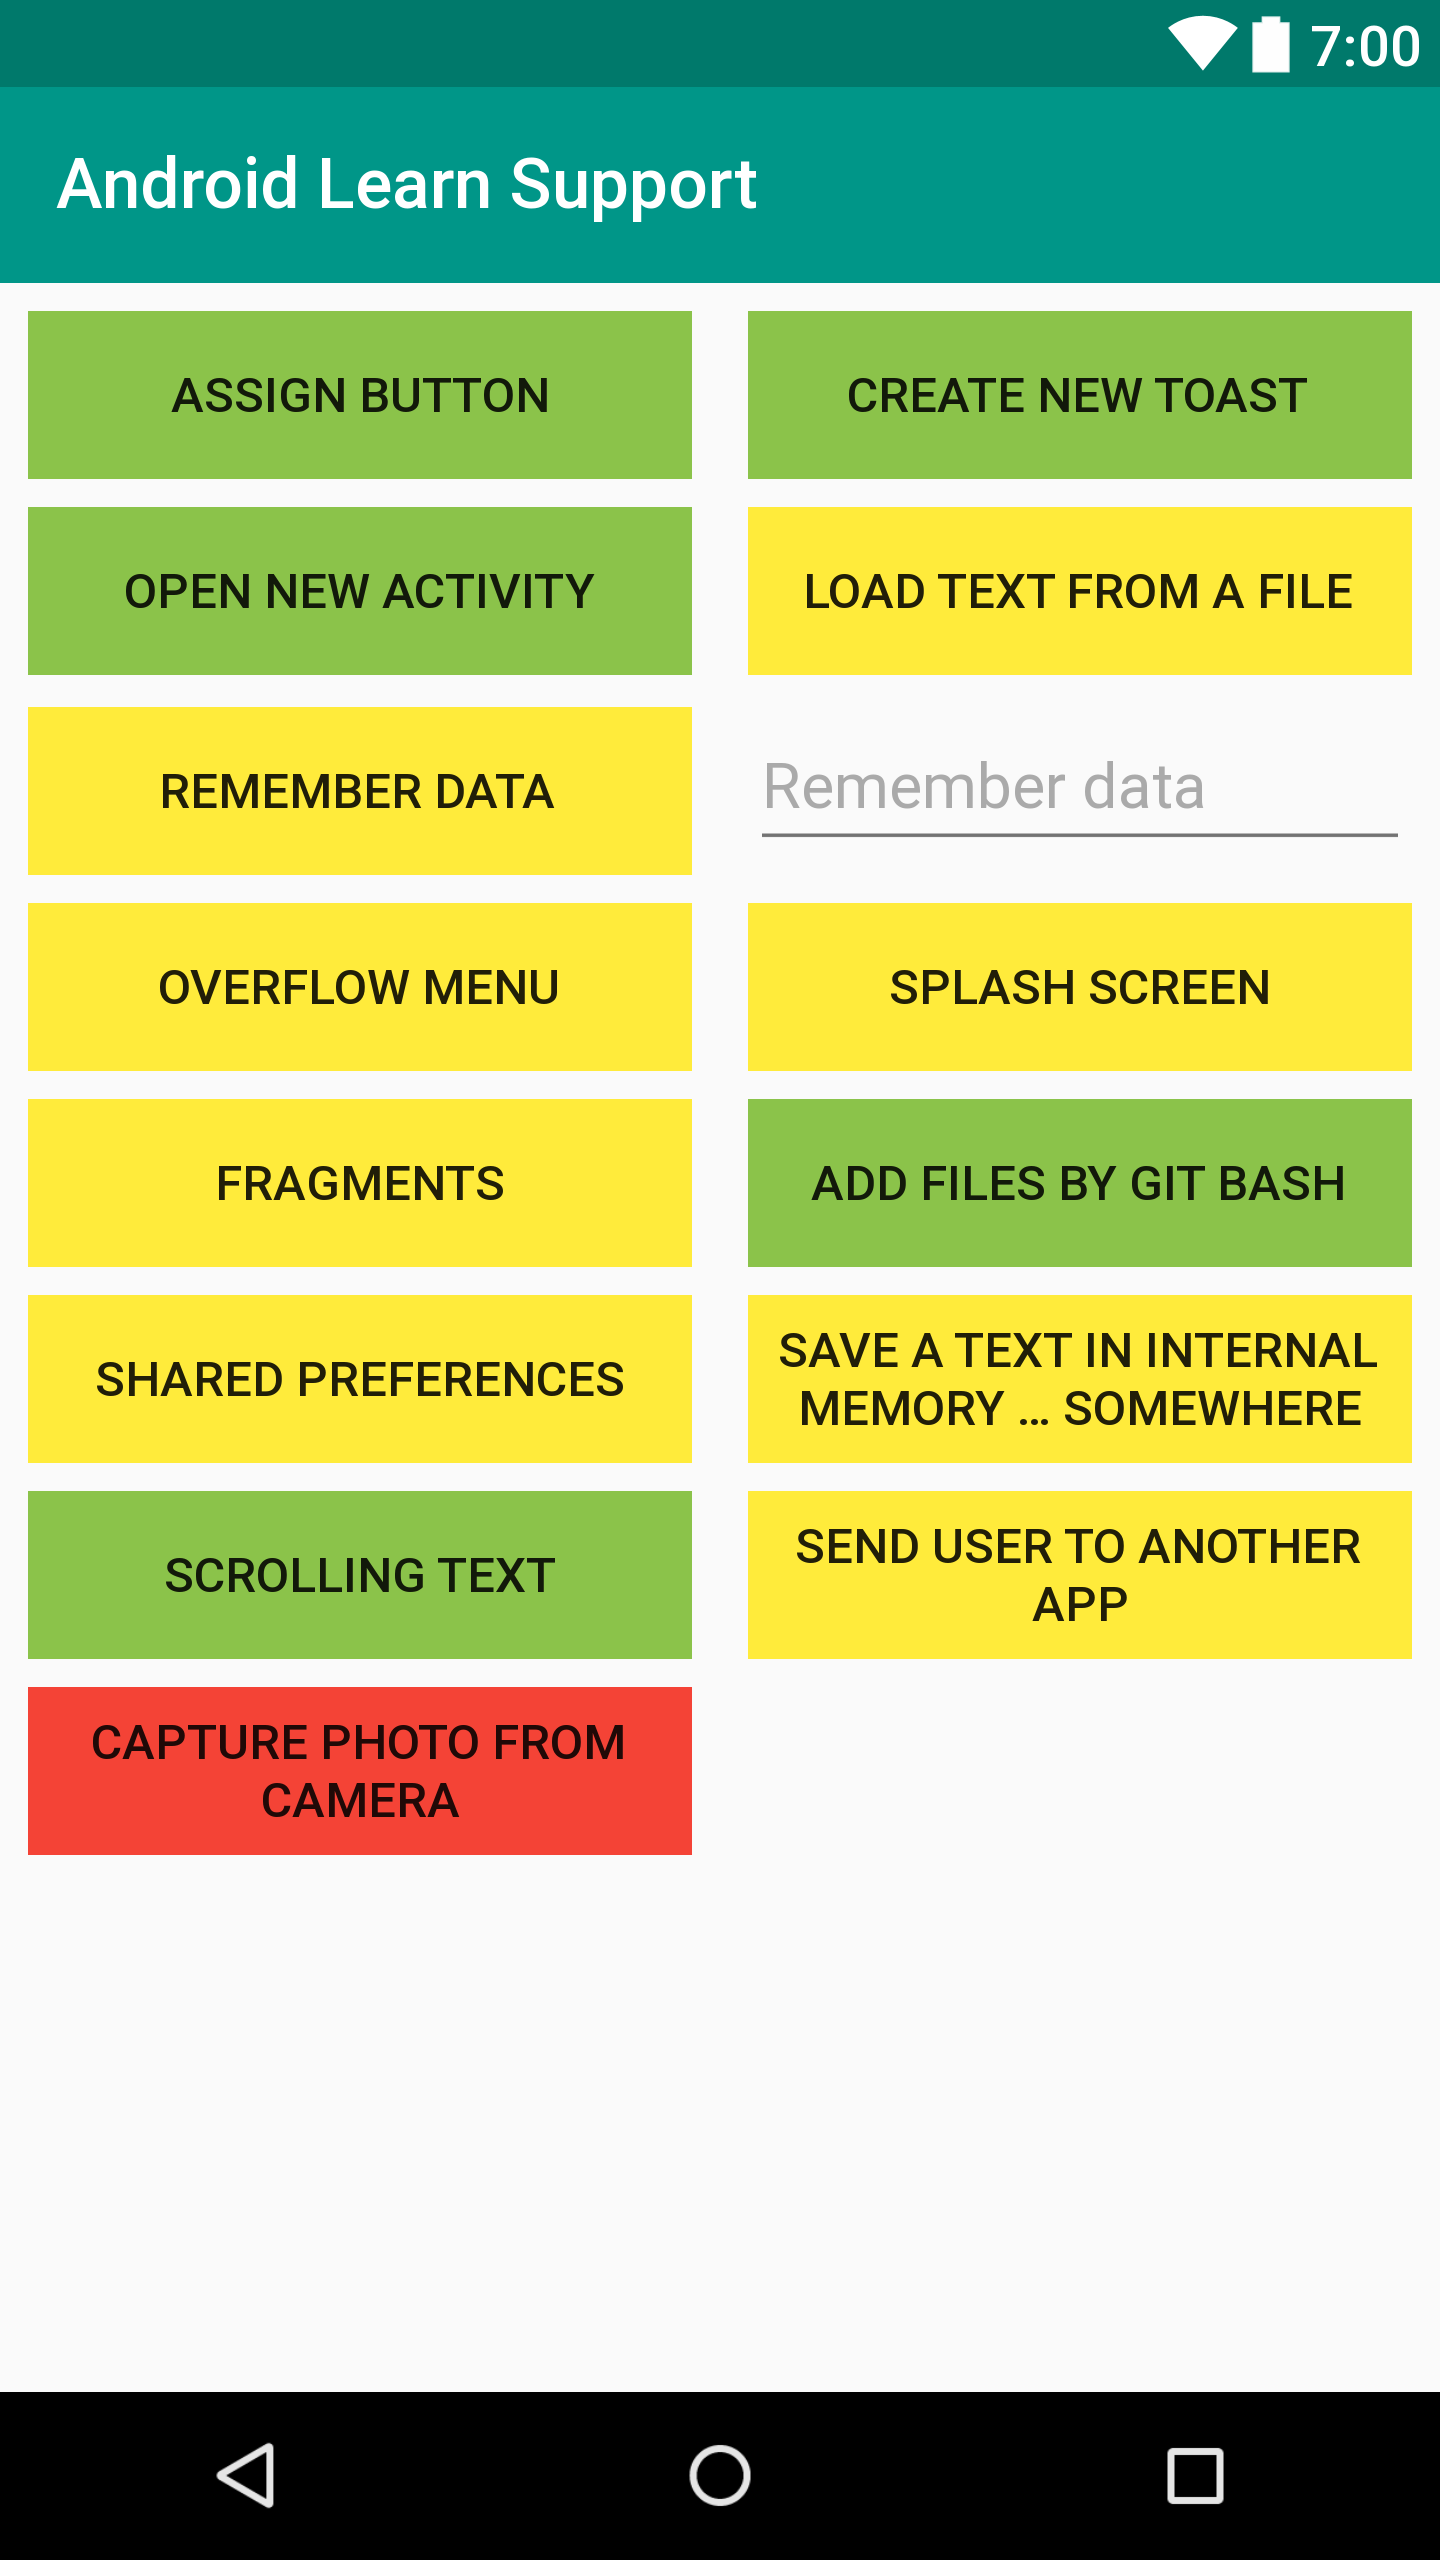
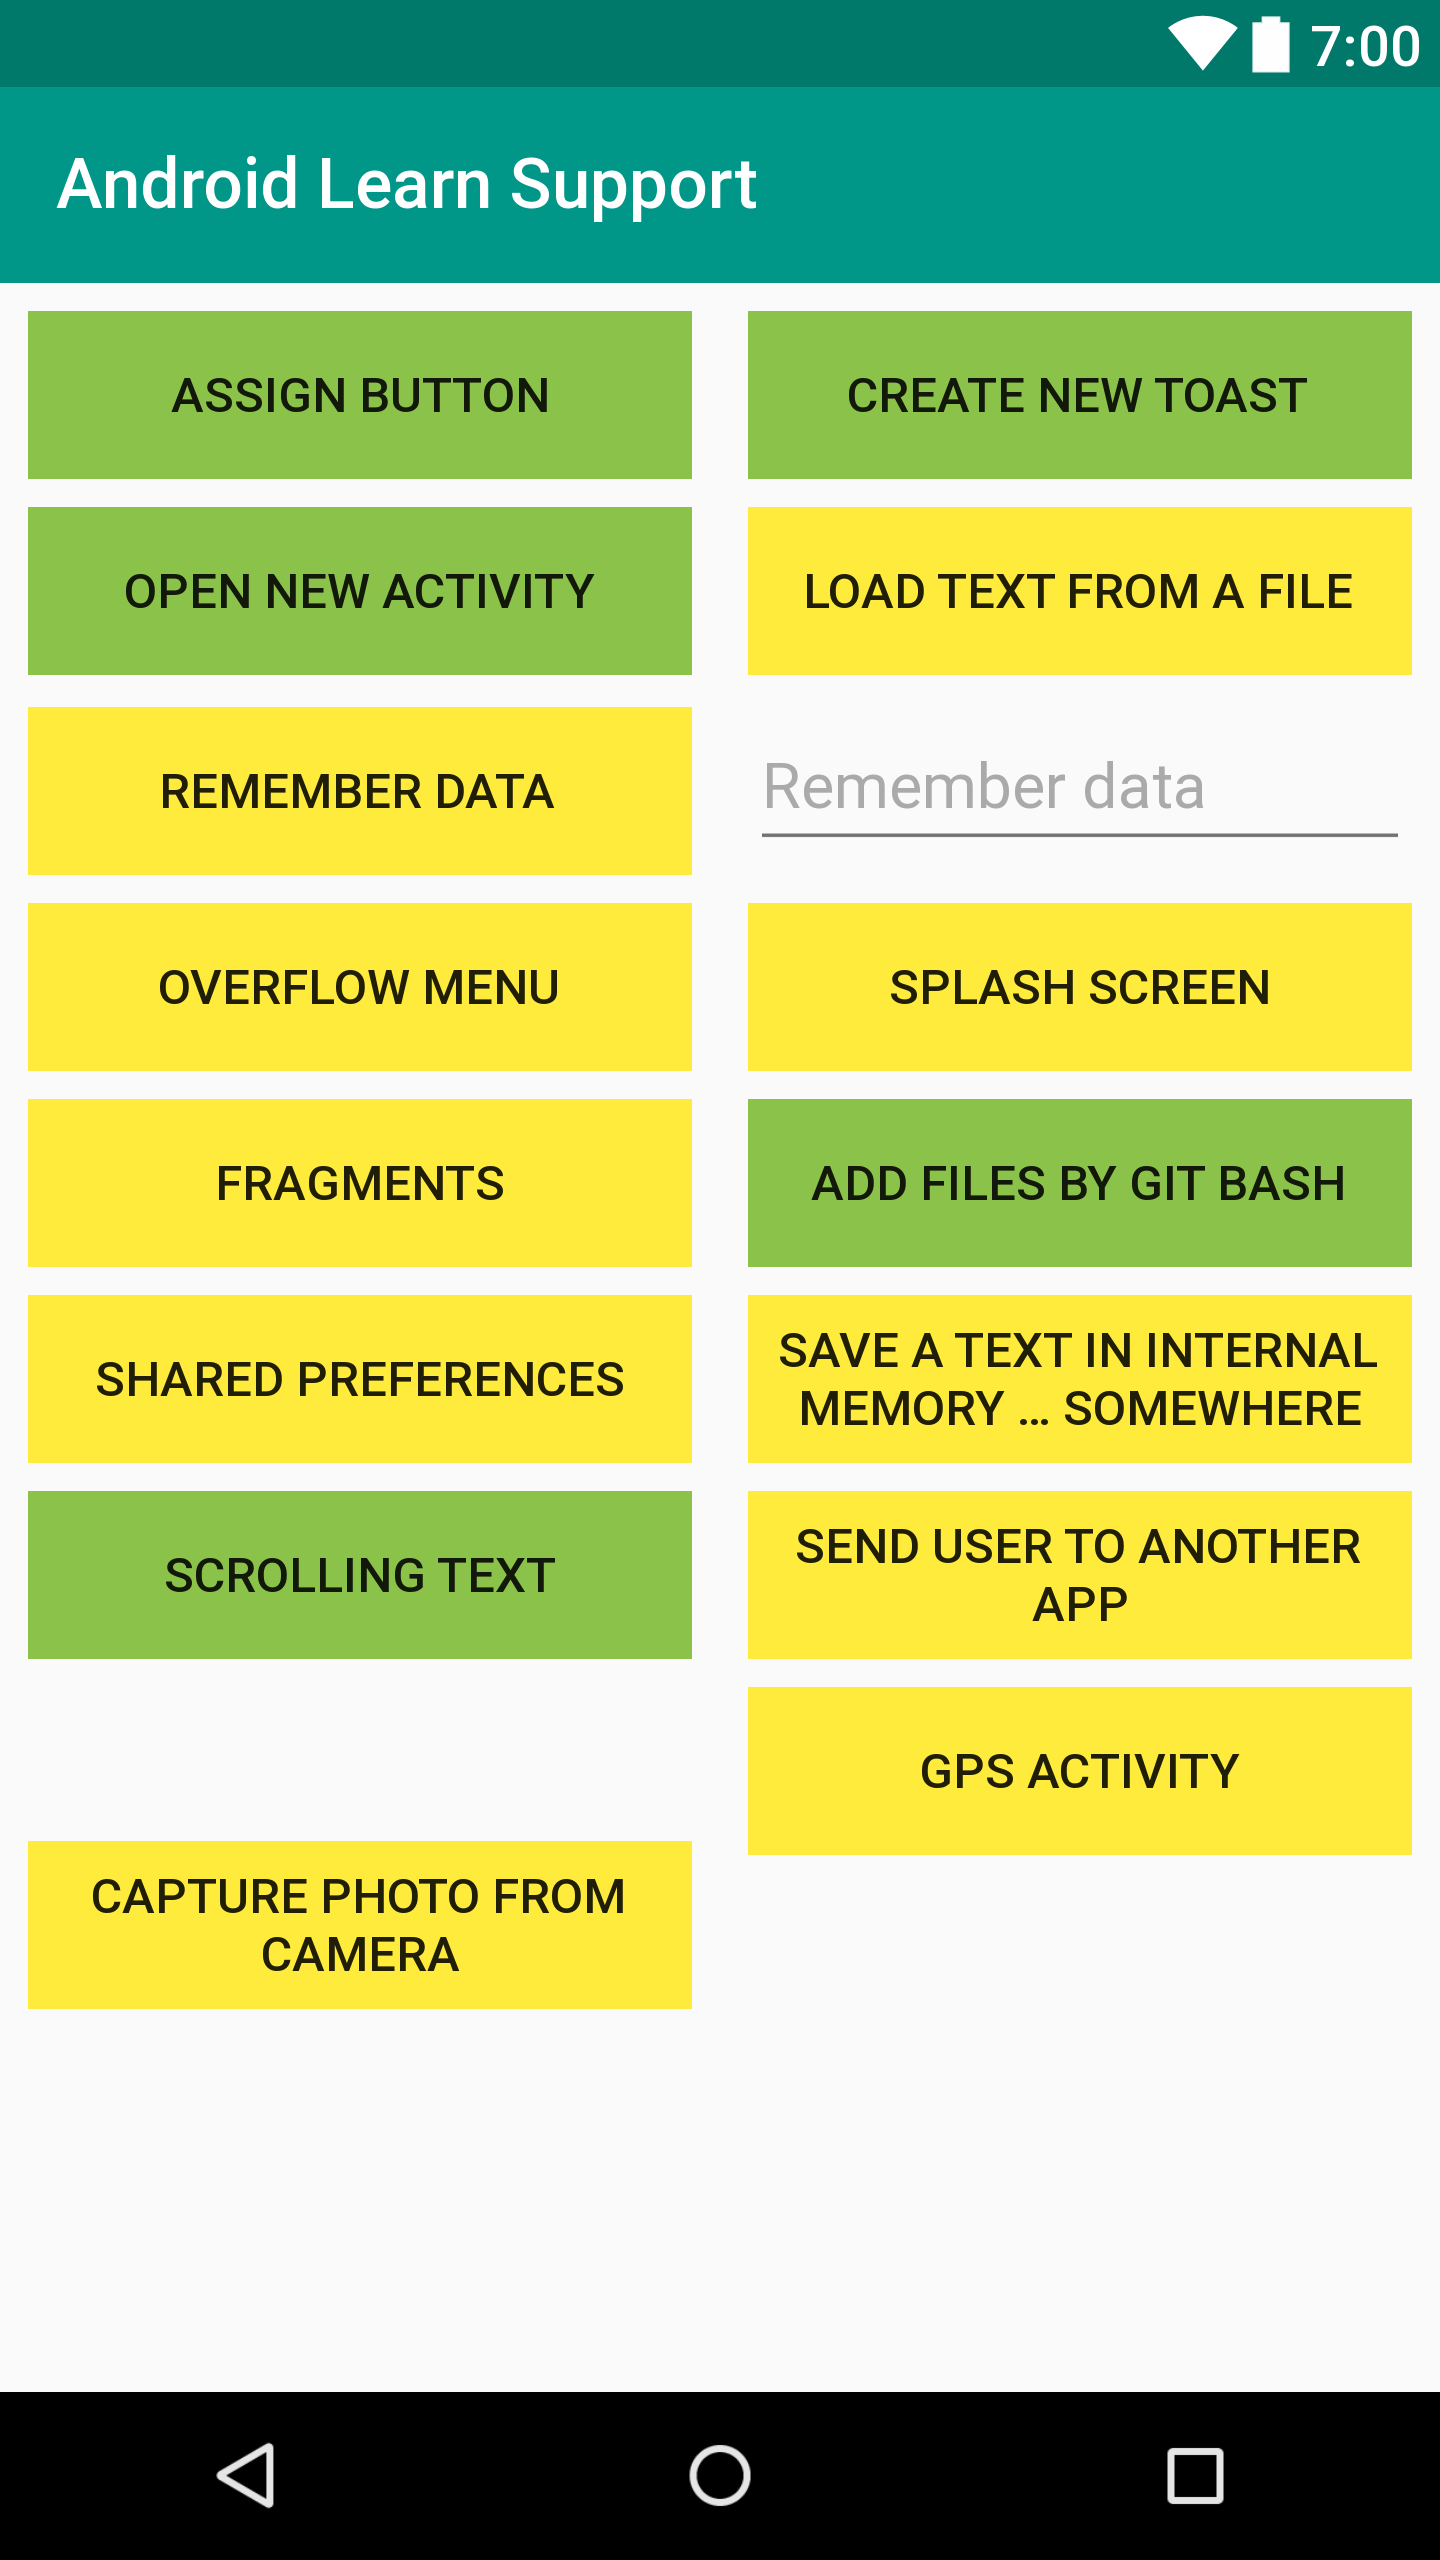
Add GPS Activity to show your location on Google Maps

Changed region(s): [[0.0, 0.6562, 1.0, 0.8125]]

diff --git a/app/src/main/java/com/example/androidlearnsupport/GPSActivity.java b/app/src/main/java/com/example/androidlearnsupport/GPSActivity.java
@@ -1,0 +1,92 @@
+package com.example.androidlearnsupport;
+
+import android.Manifest;
+import android.content.Context;
+import android.content.Intent;
+import android.content.pm.PackageManager;
+import android.location.Location;
+import android.location.LocationListener;
+import android.location.LocationManager;
+import android.net.Uri;
+import android.support.v4.app.ActivityCompat;
+import android.support.v4.content.ContextCompat;
+import android.support.v7.app.AppCompatActivity;
+import android.os.Bundle;
+import android.text.method.ScrollingMovementMethod;
+import android.view.Menu;
+import android.view.MenuInflater;
+import android.view.MenuItem;
+import android.view.View;
+import android.widget.TextView;
+import android.widget.Toast;
+
+import org.w3c.dom.Text;
+
+public class GPSActivity extends AppCompatActivity implements LocationListener {
+
+    @Override
+    protected void onCreate(Bundle savedInstanceState) {
+        super.onCreate(savedInstanceState);
+        setContentView(R.layout.activity_gps);
+        this.setTitle(R.string.GPS_activity);
+        TextView gpsDescription = (TextView) findViewById(R.id.GPSDescription);
+        gpsDescription.setMovementMethod(new ScrollingMovementMethod());
+    }
+
+    @Override
+    public boolean onCreateOptionsMenu(Menu menu) {
+        MenuInflater inflater = getMenuInflater();
+        inflater.inflate(R.menu.menu, menu);
+        return true;
+    }
+
+    @Override
+    public boolean onOptionsItemSelected(MenuItem item){
+        int id = item.getItemId();
+
+        if (id == R.id.action_settings) {
+            Toast.makeText(this, "There are no settings yet!", Toast.LENGTH_SHORT).show();
+            return true;
+        } else if(id == R.id.action_favorite){
+            Toast.makeText(this, "There are no favorites yet!", Toast.LENGTH_SHORT).show();
+            return true;
+        } return super.onOptionsItemSelected(item);
+    }
+
+    public void locationActivation (View view) {
+        if (ContextCompat.checkSelfPermission(this, Manifest.permission.ACCESS_FINE_LOCATION)
+                != PackageManager.PERMISSION_GRANTED) {
+            Toast.makeText(this, "Access to location services denied.", Toast.LENGTH_SHORT).show();
+        } else {
+                LocationManager lom = (LocationManager) getSystemService(Context.LOCATION_SERVICE);
+                lom.requestLocationUpdates(LocationManager.GPS_PROVIDER, 3000, 10, this);
+        }
+    }
+
+    @Override
+    public void onLocationChanged (Location location){
+        double latitude = location.getLatitude();
+        double longitude = location.getLongitude();
+
+        Toast.makeText(this, "Latitude is: " + latitude + "\nLongitude is: " + longitude, Toast.LENGTH_SHORT).show();
+        String locationIntentData = "geo:" + latitude + "," + longitude;
+
+        Intent locationIntent = new Intent(Intent.ACTION_VIEW, Uri.parse(locationIntentData));
+        startActivity(locationIntent);
+    }
+
+    @Override
+    public void onStatusChanged (String provider, int status, Bundle extras){
+    }
+
+    @Override
+    public void onProviderEnabled (String provider){
+        Toast.makeText(this, "GPS enabled!", Toast.LENGTH_SHORT).show();
+    }
+
+    @Override
+    public void onProviderDisabled (String provider){
+        Toast.makeText(this, "GPS disabled!", Toast.LENGTH_SHORT).show();
+    }
+
+}

diff --git a/app/src/main/java/com/example/androidlearnsupport/MainMenu.java b/app/src/main/java/com/example/androidlearnsupport/MainMenu.java
@@ -124,4 +124,9 @@ public class MainMenu extends AppCompatActivity {
         startActivity(capturePhotoIntent);
     }
 
+    public void gpsActivity (View view){
+        Intent gpsIntent = new Intent (this, GPSActivity.class);
+        startActivity(gpsIntent);
+    }
+
 }
